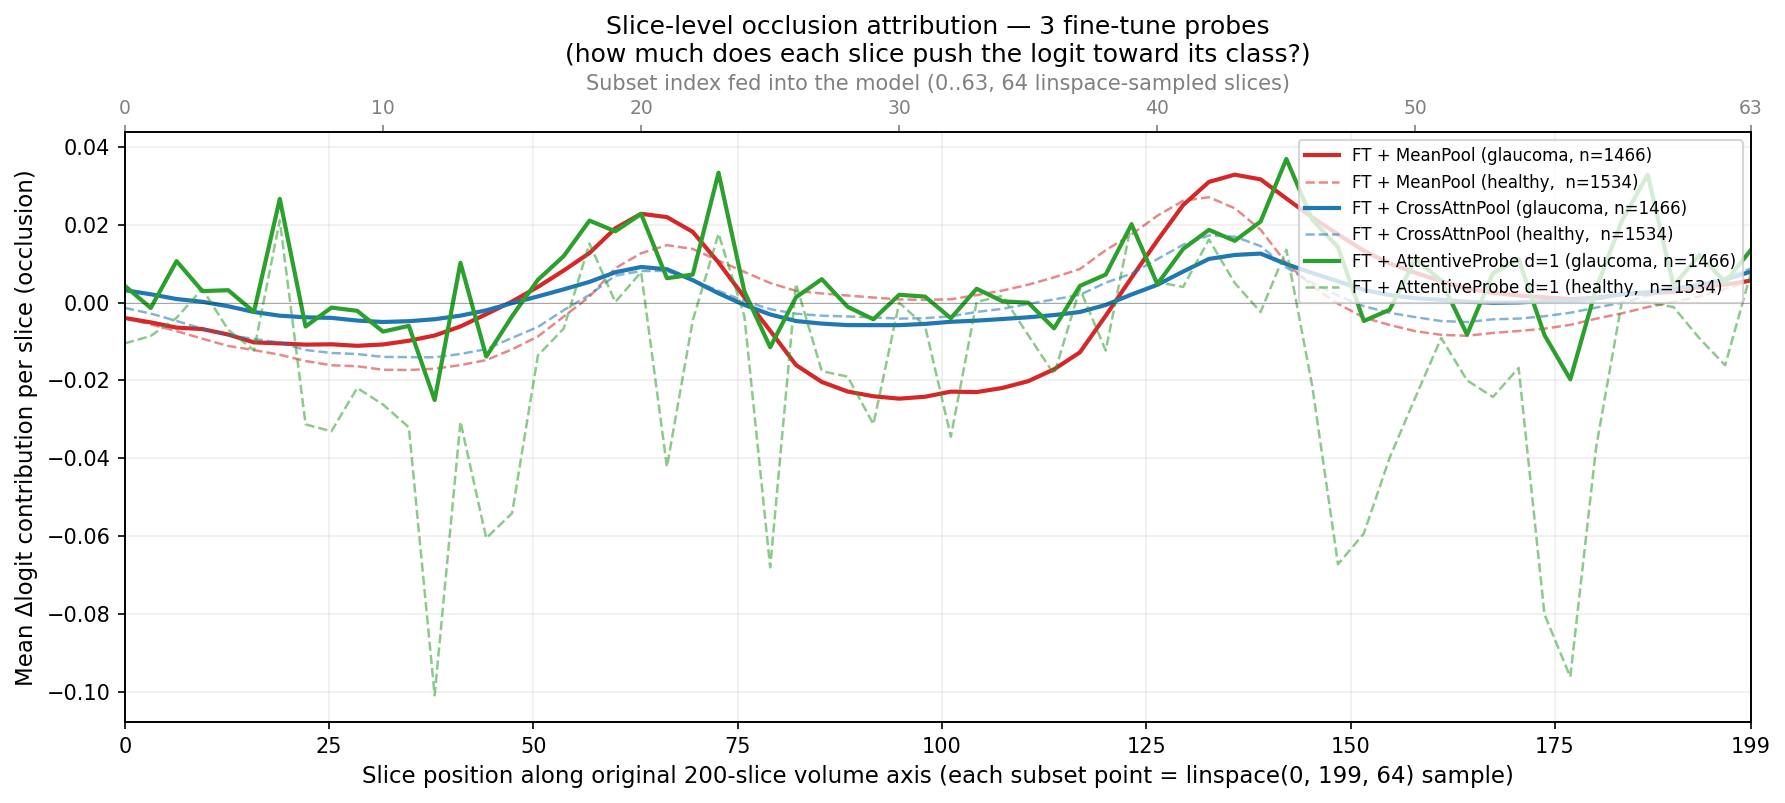
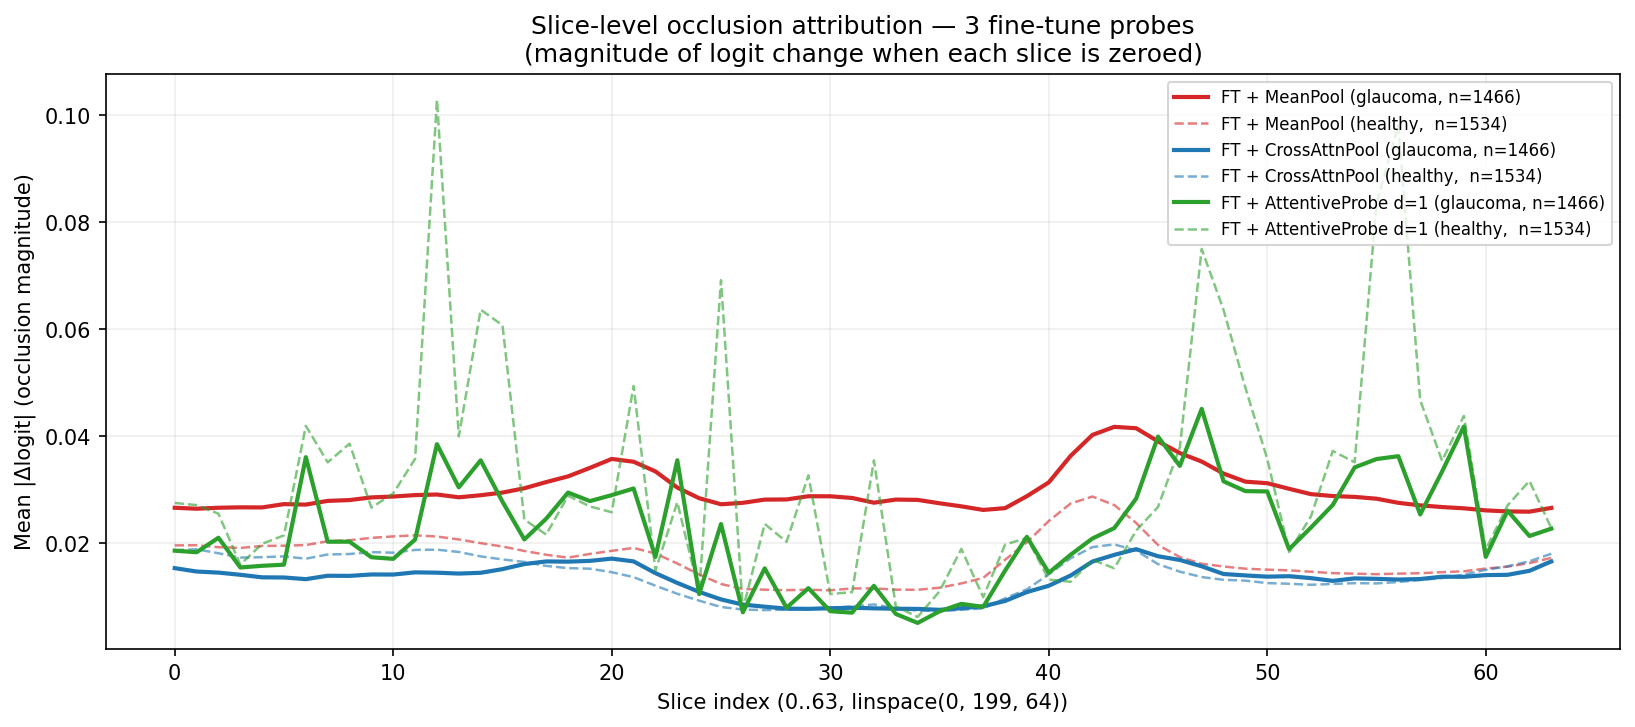
Switch slice/window occlusion plots to |Δlogit| view
Replaces signed-mean Δlogit with mean |Δlogit| on the single-slice
(64 positions) and window-W=7 (58 windows) attribution figures so the
magnitude of attribution is visible without sign cancellation.

- scripts/interpretability.py: phase4 reads raw contrib + computes |Δ|
- scripts/render_abs_attribution.py: one-shot rerender from existing npz
- results/summary/{slice_contribution_curves,04_window_occlusion_W7}.png

diff --git a/scripts/render_abs_attribution.py b/scripts/render_abs_attribution.py
@@ -1,0 +1,95 @@
+"""Re-render slice-level and window-level occlusion attribution as |Δlogit|.
+
+The previous figures plotted *signed* mean Δlogit per slice (and per W=7 window),
+which canceled within-volume opposite-sign evidence and made the population
+curve look bimodal with a "dip" in the middle. The magnitude view (mean |Δ|)
+shows where attribution is concentrated regardless of direction.
+
+Reads existing npz outputs from the interpretability archives — no AML rerun.
+Writes:
+  results/summary/slice_contribution_curves.png         (single-slice, 64 positions)
+  results/summary/04_window_occlusion_W7.png            (multi-slice W=7, 58 windows)
+"""
+import os
+import numpy as np
+import matplotlib
+matplotlib.use('Agg')
+import matplotlib.pyplot as plt
+
+
+REPO         = os.path.dirname(os.path.dirname(os.path.abspath(__file__)))
+ARCHIVE_FP32 = r'C:\Users\garyfeng\OneDrive - Microsoft\Desktop\I-JEPA_archive\04_interpretability_v2_fp32\slice_contributions'
+ARCHIVE_FP16 = r'C:\Users\garyfeng\OneDrive - Microsoft\Desktop\I-JEPA_archive\04_interpretability\window_occlusion'
+OUT_DIR      = os.path.join(REPO, 'results', 'summary')
+
+NAMES    = ['meanpool', 'crossattn', 'd1']
+DISPLAYS = {'meanpool': 'FT + MeanPool',
+            'crossattn': 'FT + CrossAttnPool',
+            'd1':        'FT + AttentiveProbe d=1'}
+COLORS   = {'meanpool': '#d62728', 'crossattn': '#1f77b4', 'd1': '#2ca02c'}
+
+
+def render(curves, x, xlabel, title, out_path):
+    fig, ax = plt.subplots(figsize=(11, 5))
+    for name, abs_pos, abs_neg, n_pos, n_neg in curves:
+        ax.plot(x, abs_pos, color=COLORS[name],
+                linestyle='-',  linewidth=2.0,
+                label=f'{DISPLAYS[name]} (glaucoma, n={n_pos})')
+        ax.plot(x, abs_neg, color=COLORS[name],
+                linestyle='--', linewidth=1.2, alpha=0.6,
+                label=f'{DISPLAYS[name]} (healthy,  n={n_neg})')
+    ax.set_xlabel(xlabel)
+    ax.set_ylabel('Mean |Δlogit| (occlusion magnitude)')
+    ax.set_title(title)
+    ax.legend(loc='upper right', fontsize=8)
+    ax.grid(True, alpha=0.2)
+    fig.tight_layout()
+    fig.savefig(out_path, dpi=150, bbox_inches='tight')
+    plt.close(fig)
+    print(f'wrote {out_path}')
+
+
+def render_single_slice():
+    curves = []
+    for name in NAMES:
+        d = np.load(os.path.join(ARCHIVE_FP32, f'slice_contrib_{name}.npz'))
+        c, y = d['contrib'], d['labels']
+        curves.append((name,
+                       np.abs(c[y == 1]).mean(axis=0),
+                       np.abs(c[y == 0]).mean(axis=0),
+                       int((y == 1).sum()),
+                       int((y == 0).sum())))
+    n_pos = curves[0][1].shape[0]
+    render(curves,
+           x=np.arange(n_pos),
+           xlabel=f'Slice index (0..{n_pos-1}, linspace(0, 199, {n_pos}))',
+           title='Slice-level occlusion attribution — 3 fine-tune probes\n'
+                 '(magnitude of logit change when each slice is zeroed)',
+           out_path=os.path.join(OUT_DIR, 'slice_contribution_curves.png'))
+
+
+def render_window_W7():
+    curves = []
+    W = None
+    for name in NAMES:
+        d = np.load(os.path.join(ARCHIVE_FP16, f'window_contrib_{name}_W7.npz'))
+        c, y = d['window_contrib'], d['labels']
+        W = int(d['W'])
+        curves.append((name,
+                       np.abs(c[y == 1]).mean(axis=0),
+                       np.abs(c[y == 0]).mean(axis=0),
+                       int((y == 1).sum()),
+                       int((y == 0).sum())))
+    n_windows = curves[0][1].shape[0]
+    render(curves,
+           x=np.arange(n_windows),
+           xlabel=f'Window start index (0..{n_windows-1}, W={W} consecutive slices zeroed)',
+           title=f'Window occlusion attribution (W={W}) — 3 fine-tune probes\n'
+                 f'(magnitude of logit change when {W} consecutive slices are zeroed)',
+           out_path=os.path.join(OUT_DIR, '04_window_occlusion_W7.png'))
+
+
+if __name__ == '__main__':
+    os.makedirs(OUT_DIR, exist_ok=True)
+    render_single_slice()
+    render_window_W7()

diff --git a/scripts/interpretability.py b/scripts/interpretability.py
@@ -411,19 +411,22 @@ def phase4_plots(output_dir):
             print(f'[phase4] skip {name}: {path} missing')
             continue
         d = np.load(path)
-        x = np.arange(len(d['mean_pos']))
-        ax.plot(x, d['mean_pos'], color=colors[name],
+        contrib = d['contrib']
+        labels  = d['labels']
+        abs_pos = np.abs(contrib[labels == 1]).mean(axis=0)
+        abs_neg = np.abs(contrib[labels == 0]).mean(axis=0)
+        x = np.arange(len(abs_pos))
+        ax.plot(x, abs_pos, color=colors[name],
                 linestyle='-',  linewidth=2.0,
-                label=f'{displays[name]} (glaucoma, n={int((d["labels"]==1).sum())})')
-        ax.plot(x, d['mean_neg'], color=colors[name],
+                label=f'{displays[name]} (glaucoma, n={int((labels==1).sum())})')
+        ax.plot(x, abs_neg, color=colors[name],
                 linestyle='--', linewidth=1.2, alpha=0.6,
-                label=f'{displays[name]} (healthy,  n={int((d["labels"]==0).sum())})')
+                label=f'{displays[name]} (healthy,  n={int((labels==0).sum())})')
 
-    ax.axhline(0, color='k', linewidth=0.5, alpha=0.3)
     ax.set_xlabel('Slice index (0..63, linspace(0, 199, 64))')
-    ax.set_ylabel('Mean Δlogit contribution per slice (occlusion)')
+    ax.set_ylabel('Mean |Δlogit| per slice (occlusion magnitude)')
     ax.set_title('Slice-level occlusion attribution — 3 fine-tune probes\n'
-                 '(how much does each slice push the logit toward its class?)')
+                 '(magnitude of logit change when each slice is zeroed)')
     ax.legend(loc='upper right', fontsize=8)
     ax.grid(True, alpha=0.2)
     fig.tight_layout()
